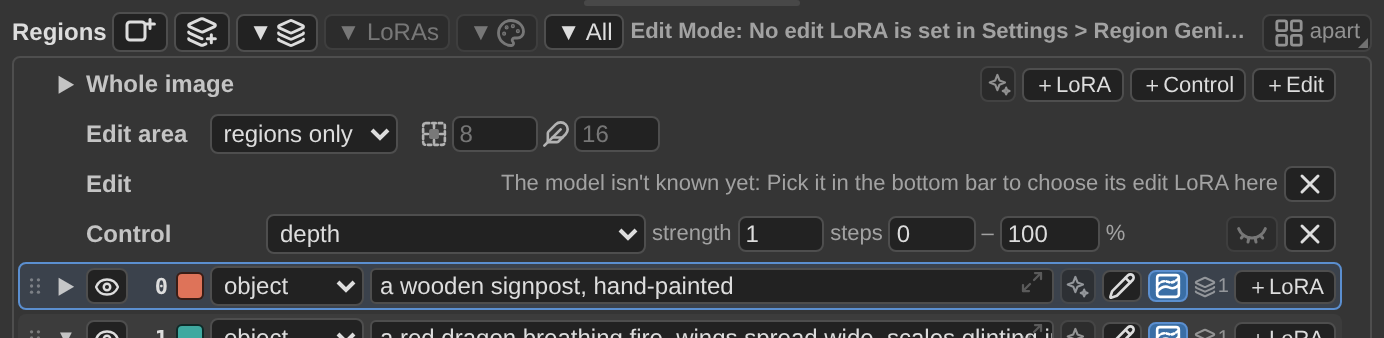
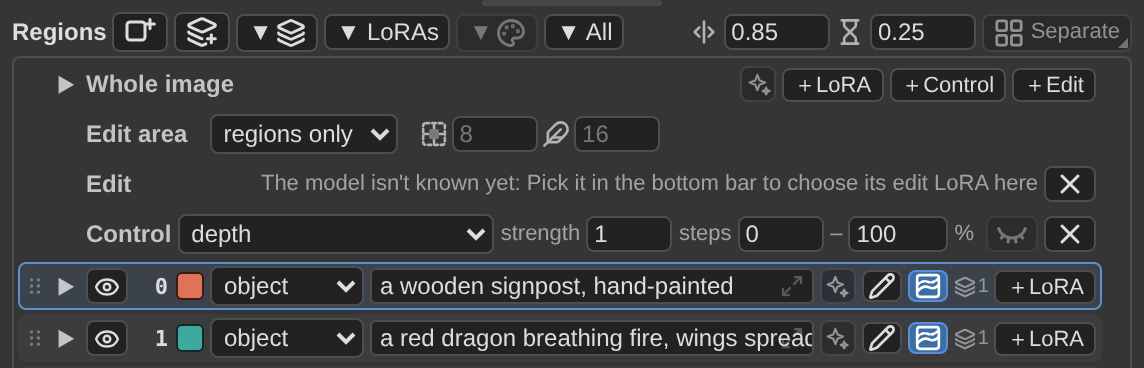
README pictures retaken; a Control row fits the 580 px node
New pictures for the README's feature tour (the node, its parts
numbered, a region's LoRA, Control and Edit rows, the large editor,
Save Image); the help page shares the numbered one. A Control row's
dropdown gives way so the row's remove button is no longer cut off at
the new default width.

Claude-Session: https://claude.ai/code/session_01B5U1gpBZHxaHUVoHyaNrX1

Changed region(s): [[0.0, 0.0296, 1.0, 1.0], [0.0306, 0.2071, 0.2142, 0.2959]]

diff --git a/js/editor/style.js b/js/editor/style.js
@@ -352,7 +352,7 @@ textarea.rg-scene-ta.rg-llm-on, textarea.rg-big-ta.rg-llm-on { outline:1.5px sol
 .rg-row .rg-ff-browse { width:22px; height:20px; border-radius:4px; }
 .rg-row .rg-ff-browse svg { width:14px; height:14px; }
 .rg-row.ctrl .rg-num { width:44px; }
-.rg-row.ctrl .rg-sel { min-width:150px; max-width:190px; }
+.rg-row.ctrl .rg-sel { flex:0 1 190px; min-width:90px; max-width:190px; }      /* gives way first: the row fits a 580 px node (round 48) */
 .rg-settings .rg-sel.rg-model { max-width:150px; }
 .rg-settings .rg-sel.rg-model.picked { border-color:#c9a14a; }
 .rg-subbody.ctrl .rg-ctrl-help { white-space:normal; line-height:14px; opacity:.8; }

diff --git a/CLAUDE.md b/CLAUDE.md
@@ -7,7 +7,7 @@ Read `docs/HANDOFF.md` before larger changes: it explains the code layout, the d
 ## Layout
 
 - Python nodes and server routes at the top level (`__init__.py` registers them); every `.js` file in `js/` (`WEB_DIRECTORY`). ComfyUI loads each of those files on its own, in any order: no two of them may import each other (`tests/ui_load_order.cjs`, part of `tests/run_ui.sh`, checks it).
-- `region_genie.py` / `js/region_genie.js` + `js/editor/*.js`: the main node and its canvas editor (the editor is split into parts that share one object, `E`: read the header of `js/editor/parts.js` first). `regional_lora.py`: the regional LoRA engine. `region_select.py`: Select object (SAM 3.1). `llm_enhance.py`: LLM Prompt Enhancer. `wildcards.py`: Impact Pack wildcards. `control.py`: Control (ControlNet / control LoRAs). `save_image.py` / `js/save_image.js`: Save Image (Region Genie). `gen_params.py`: the settings text Save Image writes for other interfaces (A1111 / Forge style): how it is read from the workflow that ran (read its header before touching it). `js/rg_shared.js`: icons (`ICONS`: the pack's own drawings; `LUCIDE`: general-purpose ones copied from Lucide, see `THIRD-PARTY-NOTICES.md`), Settings, shared helpers. `js/editor/sockets.js`: which inputs and outputs the node shows, and the step that turns shown outputs into the Python node's output numbers when a workflow is queued (read its header before touching inputs, outputs or `RETURN_NAMES`). `js/rg_keys.js`: the editor's shortcuts (one table of commands, the user's own keys, the sheet that lists and changes them). `js/rg_tooltip.js`: the pack's own tooltip (it shows every `title` inside the pack's elements). `js/rg_menu.js`: the pack's own menu (the canvas's right-click menu). `locales/<language>/`: translations of node texts and Settings (read `locales/README.md`); `js/rg_i18n.js`: translated dropdown choices. `js/docs/<node id>.md`: the help pages ComfyUI shows under Node Info (keep them current; `tests/shot_help.cjs` retakes the numbered picture).
+- `region_genie.py` / `js/region_genie.js` + `js/editor/*.js`: the main node and its canvas editor (the editor is split into parts that share one object, `E`: read the header of `js/editor/parts.js` first). `regional_lora.py`: the regional LoRA engine. `region_select.py`: Select object (SAM 3.1). `llm_enhance.py`: LLM Prompt Enhancer. `wildcards.py`: Impact Pack wildcards. `control.py`: Control (ControlNet / control LoRAs). `save_image.py` / `js/save_image.js`: Save Image (Region Genie). `gen_params.py`: the settings text Save Image writes for other interfaces (A1111 / Forge style): how it is read from the workflow that ran (read its header before touching it). `js/rg_shared.js`: icons (`ICONS`: the pack's own drawings; `LUCIDE`: general-purpose ones copied from Lucide, see `THIRD-PARTY-NOTICES.md`), Settings, shared helpers. `js/editor/sockets.js`: which inputs and outputs the node shows, and the step that turns shown outputs into the Python node's output numbers when a workflow is queued (read its header before touching inputs, outputs or `RETURN_NAMES`). `js/rg_keys.js`: the editor's shortcuts (one table of commands, the user's own keys, the sheet that lists and changes them). `js/rg_tooltip.js`: the pack's own tooltip (it shows every `title` inside the pack's elements). `js/rg_menu.js`: the pack's own menu (the canvas's right-click menu). `locales/<language>/`: translations of node texts and Settings (read `locales/README.md`); `js/rg_i18n.js`: translated dropdown choices. `js/docs/<node id>.md`: the help pages ComfyUI shows under Node Info (keep them current; `tests/shot_readme.cjs` retakes the numbered picture, with the README's).
 - `tests/`: see `tests/README.md`. There is no GPU in cloud sessions; tests use stubs, CPU, and a random-weight SAM fixture.
 
 ## Working agreements with the owner

diff --git a/docs/HANDOFF.md b/docs/HANDOFF.md
@@ -181,7 +181,7 @@ The owner asked for a UI / UX review (new users, regular users, look and feel) a
 
 - **Hints on the canvas** (`syncTips`, js/editor/canvasUi.js): `.rg-tips` along the canvas's bottom edge lists the active tool's keys and gestures (`TIPS`, one function per tool, so Select differs with and without a selected layer and Fill by version); `.rg-start` shows three first steps while there is no layer and no region. Both have `pointer-events:none`; `.rg-cv.held` (a button held on the canvas) fades the tips and hides the card. One Setting turns both off for every node at once (`hintsListeners` in rg_shared.js). The texts are not tooltips, but follow the tooltip rules' capital after the key. When a tool's gestures change, change its `TIPS` entry and `tests/ui_hints_notes.cjs`. **Round 48:** they also fade while the pointer is on the canvas (`.rg-cv.over`, set on pointerenter / pointerleave of the canvas box) and show for 3 s after a tool switch (`.flash`); `.rg-tips-btn` in the canvas's lower right corner switches the Setting (`setSetting(SET.toolHints)`, then the listeners are called directly). **Header messages (`hint()`, regions.js):** a message that doesn't fit on the header's line gets `.wide` (a line of its own under the header) for its 3.5 s; round 40's cut with "…" is gone.
 - **Run notes** (`setRunInfo`, js/editor/rows.js): Python already sent `region_info` to the editor with every run (`ui["region_info"]`); the editor now keeps it. A button left of Export shows `⚠ n` (n = lines starting with `NOTE:`) or `ⓘ`, and a click shows the notes first, then the rest, in the message bar (`showMsg(text, true)`; amber with notes, blue without). The bar is shared with Select object errors and missing control files, so picking a tool closes it. A new warning from Python needs the `NOTE:` prefix to be counted.
-- **Help pages:** `js/docs/<node id>.md` for all six nodes; ComfyUI fetches `/extensions/<pack>/docs/<node>/<locale>.md`, then `<node>.md`, and shows it under **Node Info** (toolbar of a selected node, Info tab of the side panel). English only. `js/docs/region-genie-parts.png` is made by `node tests/shot_help.cjs js/docs/region-genie-parts.png` (running ComfyUI, legacy mode): retake it when the node's look changes.
+- **Help pages:** `js/docs/<node id>.md` for all six nodes; ComfyUI fetches `/extensions/<pack>/docs/<node>/<locale>.md`, then `<node>.md`, and shows it under **Node Info** (toolbar of a selected node, Info tab of the side panel). English only. `js/docs/region-genie-parts.png` is a copy of `docs/images/editor-numbered.png`, made by `node tests/shot_readme.cjs` (running ComfyUI, legacy mode): retake it when the node's look changes.
 - **Keyboard:** `E.wrap` takes the keyboard on `pointerenter` like the canvas did (`keepFocus`, which never takes it from a text field), so a shortcut pressed over the toolbar or the list is the editor's, not ComfyUI's.
 - **Words** where an icon can't say it (the owner's choice, next to "separation" / "until"): `rowWord()` puts "strength" / "steps" before the bare numbers of Control, Edit and LoRA rows; the keep-all-regions-apart button says "apart" (class `rg-apart`).
 - **Clear all** is the toolbar's last button (class `danger`, red on hover), away from Undo / Redo.

diff --git a/docs/CHANGELOG.md b/docs/CHANGELOG.md
@@ -20,6 +20,7 @@ Each round is one request from the owner: what was asked, what was decided (and 
   - *Size.* `DEFAULT_W` 580 (shared.js); the legacy `square()` loop does the rest (580 x 1146, canvas 560 x 560). Saved workflows keep their sizes.
   - *Hints.* `.rg-cv.over` while the pointer is on the canvas box fades the gestures; a tool switch shows them for 3 s (`.flash`); `.rg-tips-btn` (`circleHelp`, new in `LUCIDE`) in the canvas's lower right corner switches the Setting 'Hints on the canvas'. The start card is unchanged.
 - **Found by a test, decided by the owner:** with an image connected (Generate), the toolbar gains the two image-mode buttons and the min-pixels field and wrapped to two rows at 580 px. Mock-ups of three places; the owner chose **a strip in the canvas's top right corner** (`.rg-imgmode`, built in footer.js, attached in canvasUi.js). The toolbar is one row in every state now.
+- **Found while retaking the pictures:** a Control row was wider than the list at 580 px and its remove button was cut off; its dropdown now gives way first (`flex:0 1 190px; min-width:90px`). Checked in `ui_hints_notes.cjs`.
 - **The button's name everywhere** (asked while this was being built): the button's own tooltip starts "Separate (keep all regions apart): …"; the two fields' tooltips start "separation:" and "until:"; the `prompt` output's tooltip, the run note about automatic separation and the Setting *Plain-text prompts: keep all regions apart automatically* say "the node's Separate button" (translated in the four languages); the manual and help page say **Separate**.
 - Tests: `ui_hints_notes.cjs` +16 (fade on / off the canvas, after a tool switch, the button's place, state and tooltip, hide and show; the header's parts and tooltips, "Separate", one line at 560 px inside, a long message on its own line and readable, a short one on the header's line, gone after 3.5 s). Real ComfyUI: a new legacy node measured at 580 x 1146 with a 560 x 560 canvas and one-row bars; Nodes 2.0 580 x 1429 with a 556 x 455 canvas.
 

diff --git a/tests/README.md b/tests/README.md
@@ -50,7 +50,7 @@ Smoke test: start ComfyUI with `--cpu --listen 127.0.0.1 --port 8188` and an `ex
 
 Round 9 (`real_run_wildcards.cjs`): clone ComfyUI-Impact-Pack into `custom_nodes` too (`pip install` its requirements without the two SAM lines, plus `segment-anything`), add a wildcard file `custom_nodes/ComfyUI-Impact-Pack/wildcards/rgtest/color.txt` (a few colors, one per line), start ComfyUI with `--cpu`, then `node tests/real_run_wildcards.cjs` and `node tests/real_run_wildcards.cjs vue`. No model files are needed (the run only produces the color map). Without Impact Pack the wildcard checks are skipped.
 
-**The help page's picture** (`js/docs/region-genie-parts.png`): `node tests/shot_help.cjs js/docs/region-genie-parts.png` with ComfyUI running (legacy mode, English). Retake it when the node's look changes.
+**The help page's picture** (`js/docs/region-genie-parts.png`): `node tests/shot_readme.cjs` with ComfyUI running (legacy mode, English): it is a copy of the README's `docs/images/editor-numbered.png`, taken with the README's other pictures. Retake it when the node's look changes.
 
 **The README's pictures** (`docs/images/editor.png`, `rows.png`): `node tests/shot_readme.cjs` with ComfyUI running. Retake them when the node's look changes.
 

diff --git a/README.md b/README.md
@@ -101,7 +101,7 @@ Draw regions with shapes, a brush, a lasso or a fill. Each region is one color w
 
 **＋LoRA** on a region adds a LoRA that acts only inside that region. **＋LoRA** on *Whole image* adds one for the whole picture. Trigger words show as chips you can click into the prompt.
 
-<img src="docs/images/lora.png" alt="A region opened in the list, with a LoRA row and its trigger words" width="460">
+<img src="docs/images/lora.png" alt="A region opened in the list, with a LoRA of its own" width="460">
 
 → [Regional LoRAs](docs/regional-loras.md)
 
